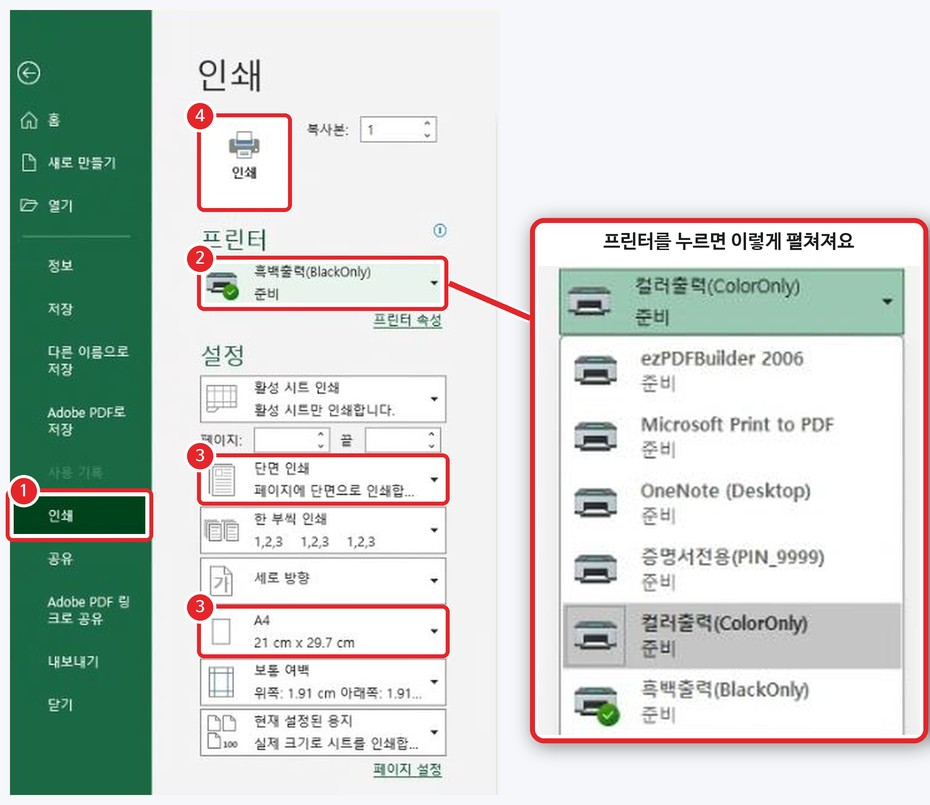
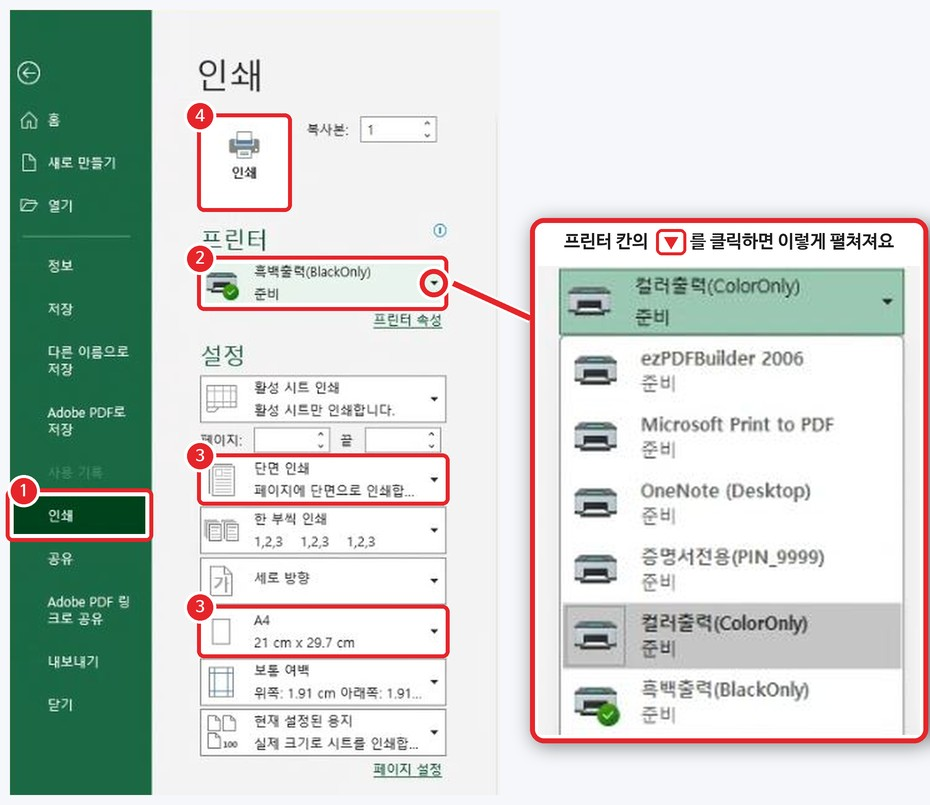
fix: 워드·엑셀 그림에서 프린터 칸의 ▼ 버튼을 강조하고 '▼를 클릭하면 펼쳐져요' 안내로 변경

Changed region(s): [[0.5925, 0.2795, 0.9667, 0.3416], [0.4366, 0.3106, 0.5301, 0.3727], [0.5301, 0.3727, 0.5613, 0.4037]]

diff --git a/guide-print.html b/guide-print.html
@@ -550,8 +550,8 @@ footer{background:#111827;color:rgba(255,255,255,.55);padding:60px 6%}
 
     <!-- 엑셀 -->
     <div class="opanel" id="office-we">
-      <div class="we-pics"><figure class="wefig"><a href="images/print/wd-lens.jpg" target="_blank" rel="noopener"><img src="images/print/wd-lens.jpg?v=3" alt="워드 인쇄 화면. 프린터를 누르면 펼쳐지는 목록을 확대해서 보여 주는 모습" loading="lazy"></a><figcaption class="est-cap">워드 화면 — 번호가 붙은 곳을 순서대로 확인하세요 <span style="color:var(--text3);font-weight:600">(사진을 누르면 크게 열려요)</span></figcaption></figure><figure class="wefig"><a href="images/print/xl-lens.jpg" target="_blank" rel="noopener"><img src="images/print/xl-lens.jpg?v=3" alt="엑셀 인쇄 화면. 프린터를 누르면 펼쳐지는 목록을 확대해서 보여 주는 모습" loading="lazy"></a><figcaption class="est-cap">엑셀 화면 — 워드와 똑같아요 <span style="color:var(--text3);font-weight:600">(사진을 누르면 크게 열려요)</span></figcaption></figure></div>
-      <div class="pgroup pg1"><ol class="plist"><li><span class="pn">1</span><div class="pb"><b>엑셀</b> 또는 <b>워드</b> 파일을 열고 왼쪽 메뉴의 <b>[인쇄]</b>를 누르세요.<br>인쇄 옵션 화면은 <b>엑셀과 워드가 똑같아요.</b></div></li><li><span class="pn">2</span><div class="pb"><b>프린터</b>에서 <b>흑백출력</b> 또는 <b>컬러출력</b>을 선택하세요.<div class="pwarn" style="margin-top:8px">⚠ <b>컬러출력</b> 프린터를 선택했다면 <b>미리보기도 컬러인지</b> 확인하세요. 미리보기에서 <b>인쇄할 모든 페이지가 컬러</b>인지 넘겨서 꼭 확인하세요.</div></div></li><li><span class="pn">3</span><div class="pb"><b>설정</b>에서 <b>용지 사이즈</b>, <b>단면 / 양면</b> 등의 옵션을 고르세요. 고른 뒤 <b>미리보기</b>로 원하는 내용이 다 나왔는지 확인하세요.<div class="pwarn">⚠ <b>용지 사이즈</b>가 <b>'레터'</b>가 아니라, <b>인쇄하려는 사이즈(A4 · B4 · A3)</b>로 되어 있는지 꼭 확인하세요.</div></div></li><li><span class="pn">4</span><div class="pb">위쪽 <b>[인쇄] 프린터 모양</b> 버튼을 누르세요. <b>개인식별번호</b> 입력창이 나오면 <b>아무 숫자 4자리</b>를 넣으세요. <b>내 핸드폰 번호 뒤 4자리</b>를 추천해요.<br>여기까지 하면, 그 뒤 <b>복합기에서 하는 부분은 똑같아요.</b></div></li></ol></div>
+      <div class="we-pics"><figure class="wefig"><a href="images/print/wd-lens.jpg" target="_blank" rel="noopener"><img src="images/print/wd-lens.jpg?v=4" alt="워드 인쇄 화면. 프린터를 누르면 펼쳐지는 목록을 확대해서 보여 주는 모습" loading="lazy"></a><figcaption class="est-cap">워드 화면 — 번호가 붙은 곳을 순서대로 확인하세요 <span style="color:var(--text3);font-weight:600">(사진을 누르면 크게 열려요)</span></figcaption></figure><figure class="wefig"><a href="images/print/xl-lens.jpg" target="_blank" rel="noopener"><img src="images/print/xl-lens.jpg?v=4" alt="엑셀 인쇄 화면. 프린터를 누르면 펼쳐지는 목록을 확대해서 보여 주는 모습" loading="lazy"></a><figcaption class="est-cap">엑셀 화면 — 워드와 똑같아요 <span style="color:var(--text3);font-weight:600">(사진을 누르면 크게 열려요)</span></figcaption></figure></div>
+      <div class="pgroup pg1"><ol class="plist"><li><span class="pn">1</span><div class="pb"><b>엑셀</b> 또는 <b>워드</b> 파일을 열고 왼쪽 메뉴의 <b>[인쇄]</b>를 누르세요.<br>인쇄 옵션 화면은 <b>엑셀과 워드가 똑같아요.</b></div></li><li><span class="pn">2</span><div class="pb"><b>프린터</b> 칸 오른쪽 끝의 <b>▼ 모양</b>을 눌러 목록을 펼친 뒤, <b>흑백출력</b> 또는 <b>컬러출력</b>을 선택하세요. (글자 '프린터'를 누르는 것이 아니에요!)<div class="pwarn" style="margin-top:8px">⚠ <b>컬러출력</b> 프린터를 선택했다면 <b>미리보기도 컬러인지</b> 확인하세요. 미리보기에서 <b>인쇄할 모든 페이지가 컬러</b>인지 넘겨서 꼭 확인하세요.</div></div></li><li><span class="pn">3</span><div class="pb"><b>설정</b>에서 <b>용지 사이즈</b>, <b>단면 / 양면</b> 등의 옵션을 고르세요. 고른 뒤 <b>미리보기</b>로 원하는 내용이 다 나왔는지 확인하세요.<div class="pwarn">⚠ <b>용지 사이즈</b>가 <b>'레터'</b>가 아니라, <b>인쇄하려는 사이즈(A4 · B4 · A3)</b>로 되어 있는지 꼭 확인하세요.</div></div></li><li><span class="pn">4</span><div class="pb">위쪽 <b>[인쇄] 프린터 모양</b> 버튼을 누르세요. <b>개인식별번호</b> 입력창이 나오면 <b>아무 숫자 4자리</b>를 넣으세요. <b>내 핸드폰 번호 뒤 4자리</b>를 추천해요.<br>여기까지 하면, 그 뒤 <b>복합기에서 하는 부분은 똑같아요.</b></div></li></ol></div>
       <a class="goto" href="#print-step2" onclick="goStep2();return false"><span>워드 · 엑셀 인쇄 옵션은 여기까지예요! [인쇄]를 누르면 개인식별번호 입력창이 나와요.</span><b>위 &lsquo;인쇄하는 방법&rsquo; 2단계(비밀번호 4자리 입력)부터 이어서 하세요 ⬆</b></a>
     </div>
 
